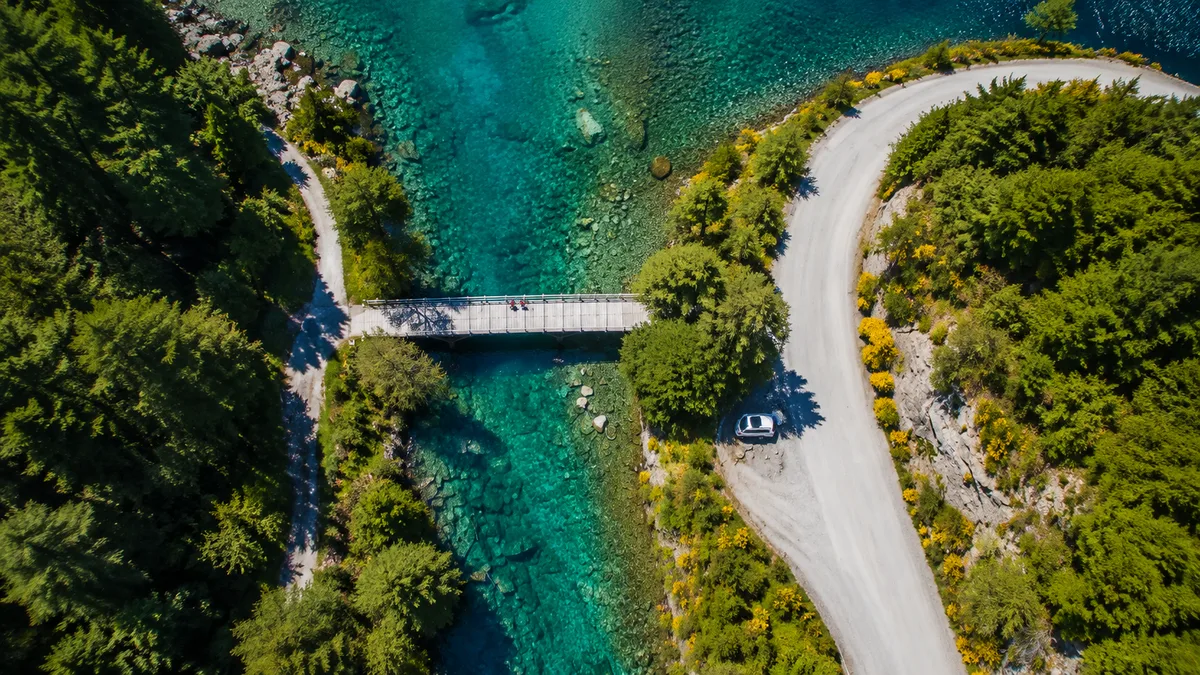
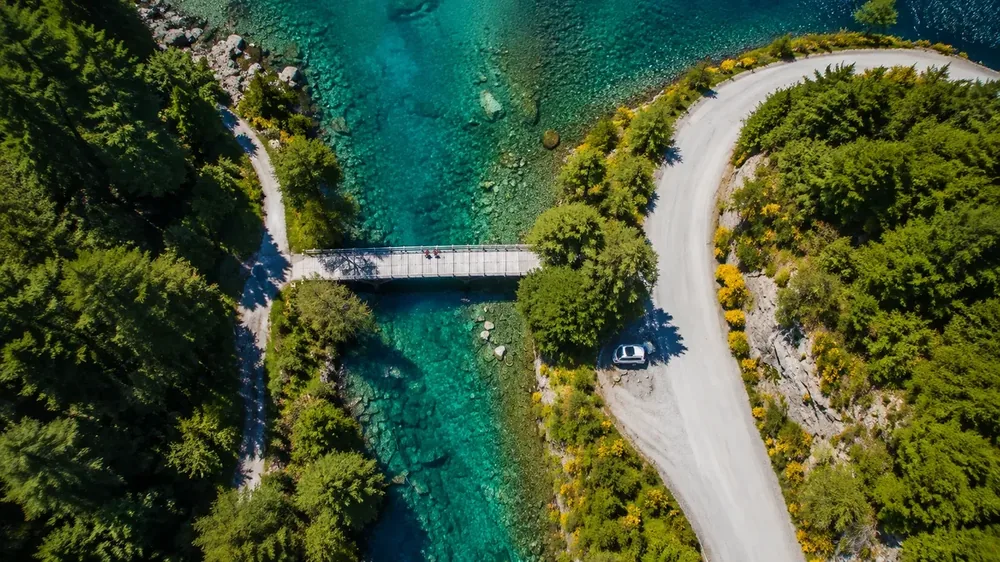
Auditoría: pausa táctil en marquee + comprimir foto de fondo pesada
- Franja de credenciales: el marquee infinito se pausaba con :hover,
  pero touch no tiene hover -- se agrega pausa con pointerdown/up para
  que en mobile también se pueda parar a leer.
- descenso-camino-1200.webp: 241KB -> 162KB (recompresión + resize a
  1000w), sin pérdida visible perceptible, para un peso más parejo
  con el resto de las fotos del Descenso (72-108KB).

Changed region(s): [[0.31, 0.7562, 0.341, 0.7865]]

diff --git a/js/main.js b/js/main.js
@@ -214,6 +214,7 @@ const App = {
     this.portal();
     this.tres();
     this.galeria();
+    this.credenciales();
 
     this.onScroll = () => {
       if (this._raf) return;
@@ -756,6 +757,22 @@ const App = {
   sinTres() {
     const cf = q('[data-role="c-fuego"]');
     if (cf) cf.style.display = 'none';
+  },
+
+  /* ---------- franja de credenciales: marquee infinito -- se pausa con
+     :hover en mouse, pero el touch no tiene hover, así que sin esto un
+     lector alcanza a leer la mitad de una frase antes de que se le escape
+     de nuevo. pointerdown/up cubre touch y mouse por igual, sin duplicar
+     la lógica de :hover que ya cubre el caso de mouse sin tocar nada. ---------- */
+  credenciales() {
+    const cont = q('.credenciales');
+    if (!cont) return;
+    cont.addEventListener('pointerdown', e => {
+      if (e.pointerType !== 'touch') return;
+      cont.classList.add('is-paused');
+    });
+    cont.addEventListener('pointerup', () => cont.classList.remove('is-paused'));
+    cont.addEventListener('pointercancel', () => cont.classList.remove('is-paused'));
   },
 
   /* ---------- 02 territorio ---------- */

diff --git a/index.html b/index.html
@@ -36,7 +36,7 @@
 <!-- poster del video del portal: es lo primero que se ve (LCP real), antes de
      que el video mismo termine de bajar -- se adelanta su descarga -->
 <link rel="preload" href="assets/img/2018-03-05-PHOTO-00000187-1024x683.webp" as="image" fetchpriority="high">
-<link rel="stylesheet" href="css/style.css?v=35">
+<link rel="stylesheet" href="css/style.css?v=36">
 <script defer src="js/quiven-3d.js?v=32"></script>
 <script type="application/ld+json">
 {
@@ -624,6 +624,6 @@
 </div>
 
 <script defer src="js/i18n.js?v=34"></script>
-<script defer src="js/main.js?v=38"></script>
+<script defer src="js/main.js?v=39"></script>
 </body>
 </html>

diff --git a/css/style.css b/css/style.css
@@ -647,7 +647,8 @@ button { font: inherit; }
   gap: clamp(18px, 3.5vw, 44px);
   animation: qvCredMarquee 26s linear infinite;
 }
-.credenciales:hover .credenciales-track { animation-play-state: paused; }
+.credenciales:hover .credenciales-track,
+.credenciales.is-paused .credenciales-track { animation-play-state: paused; }
 .credenciales span {
   font-size: clamp(0.64rem, 1.7vw, 0.72rem);
   letter-spacing: 0.04em;
